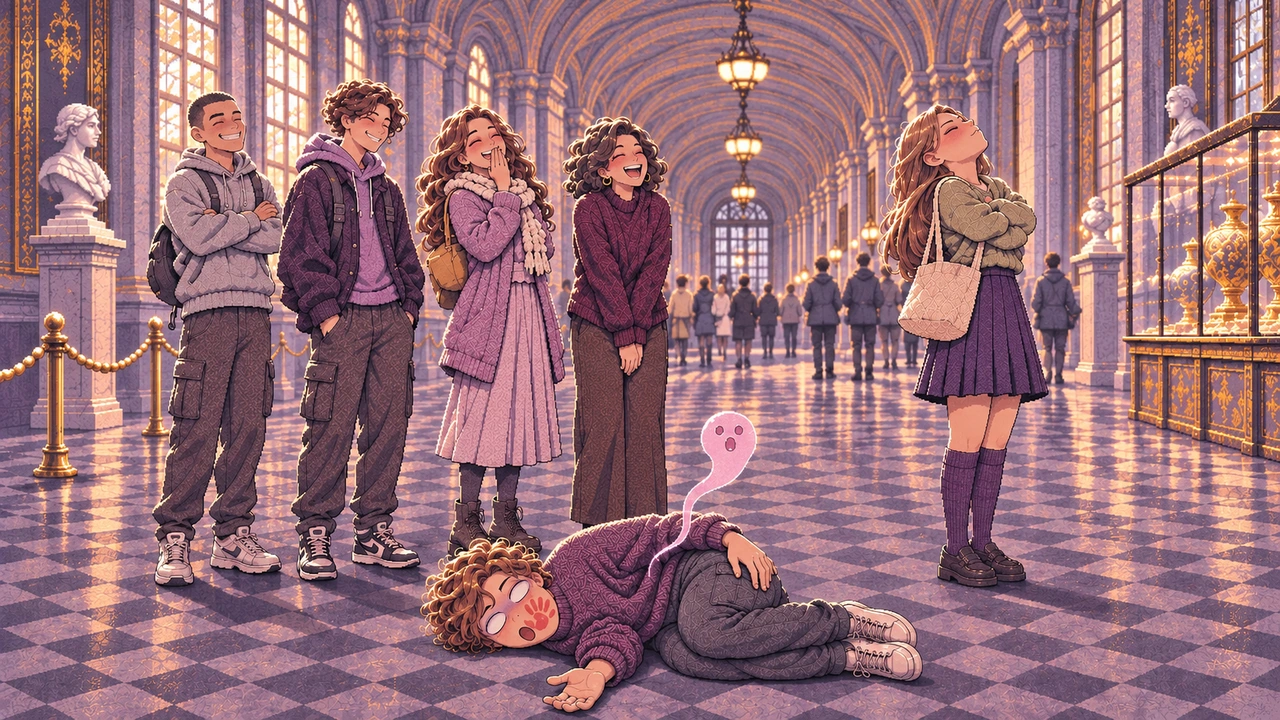
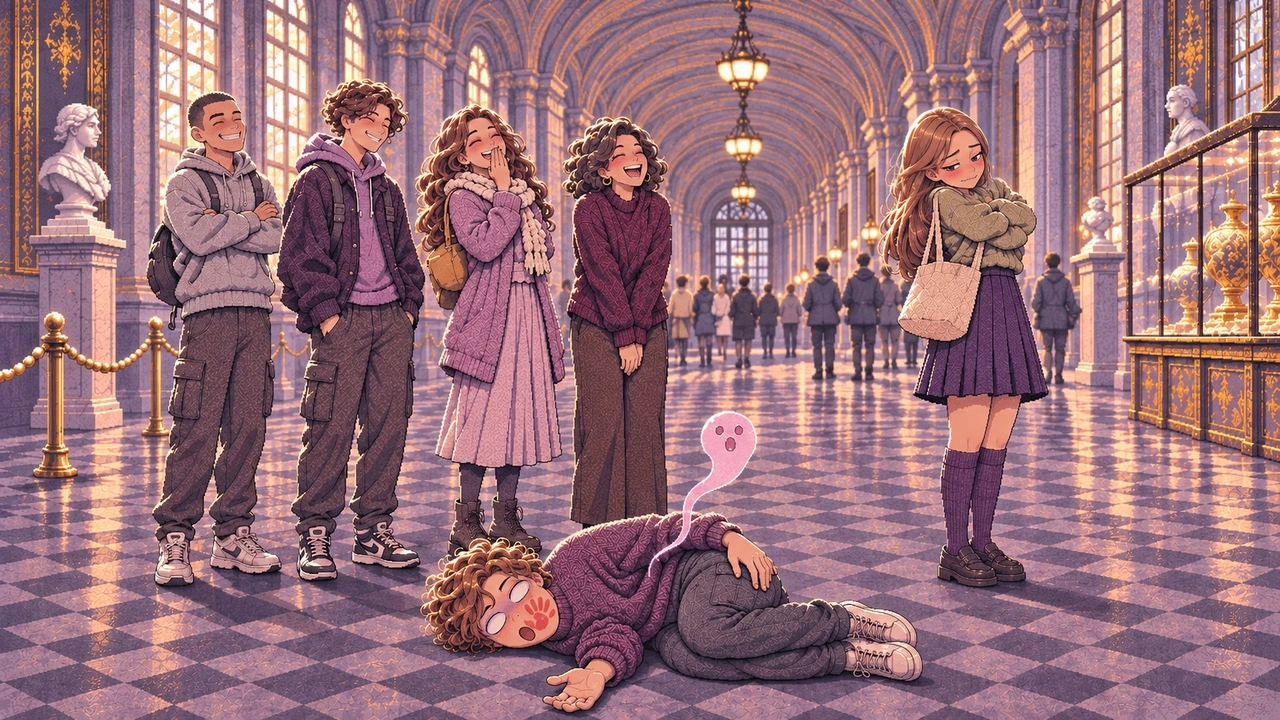
Polish the museum scenes and add their sound effects

Changed region(s): [[0.6875, 0.1222, 0.7812, 0.275]]

diff --git a/story.js b/story.js
@@ -1718,6 +1718,7 @@ const museumOuting = [
   },
   {
     id: 'night-museum-standoff', art: 'night-museum-standoff', title: 'Перепалка',
+    sound: 'assets/route/night-museum-standoff.mp3',
     silentFrame: true,
     alt: 'Между взглядами двух компаний проскальзывает розовая молния.',
   },
@@ -1798,13 +1799,14 @@ const museumOuting = [
   },
   {
     id: 'night-museum-slap', art: 'night-museum-slap', title: 'Пощёчина', speaker: 'Юлиана',
+    sound: 'assets/route/night-museum-slap.mp3',
     line: 'Дурак! Зачем так близко?!',
     alt: 'Юлиана даёт Диме пощёчину. Он комично отлетает в сторону.',
   },
   {
     id: 'night-museum-space', art: 'night-museum-space', title: 'Второй полёт', achievement: secondSpaceTrip.id,
     silentFrame: true,
-    alt: 'Дима лежит на полу, испустив розовое призрачное облачко. На заднем плане красная Юлиана задирает нос.',
+    alt: 'Дима лежит на полу, испустив розовое призрачное облачко. На заднем плане Юлиана краснеет и смущённо отводит взгляд.',
   },
 ];
 

diff --git a/index.html b/index.html
@@ -7,7 +7,7 @@
   <meta name="description" content="Minigames — коллекция мини-игр. Первая игра — визуальная новелла «День Серёжи».">
   <title>Minigames</title>
   <link rel="stylesheet" href="style.css?v=outing-review">
-  <script src="story.js?v=outing-review" defer></script>
+  <script src="story.js?v=museum-sounds" defer></script>
   <script src="coastlines.js" defer></script>
   <script src="route-map.js" defer></script>
   <script src="game.js?v=character-previews" defer></script>
